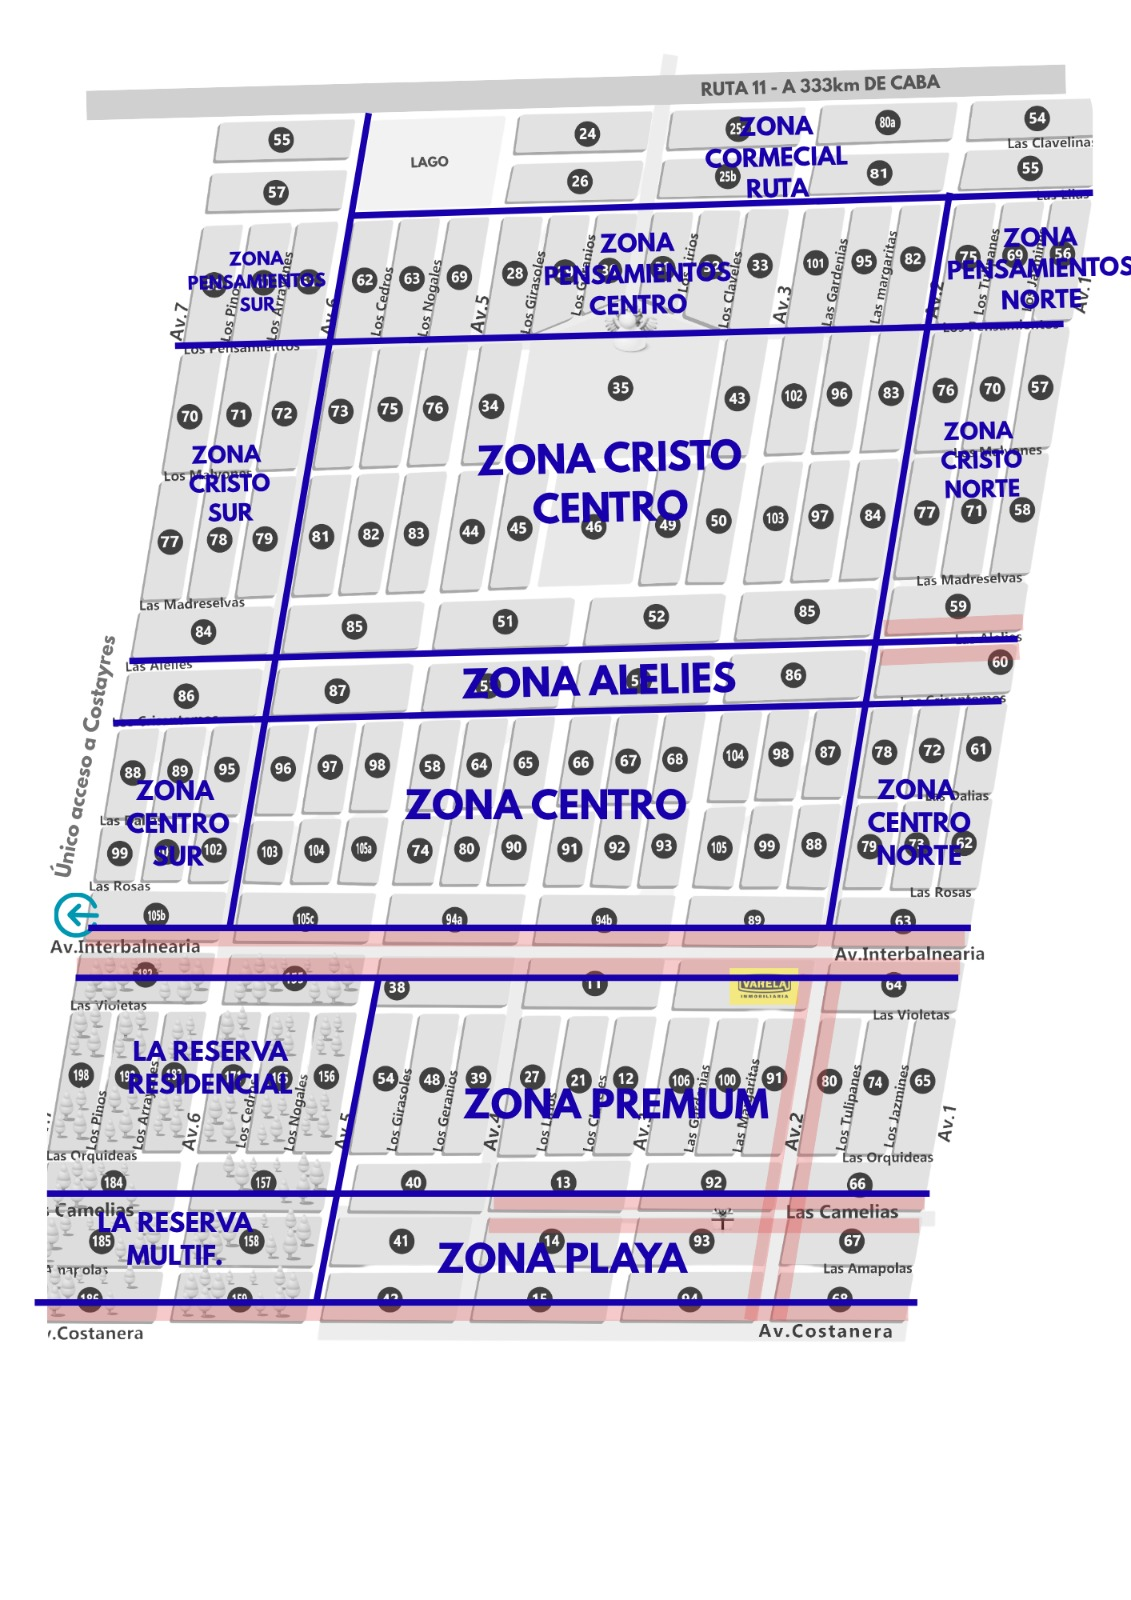
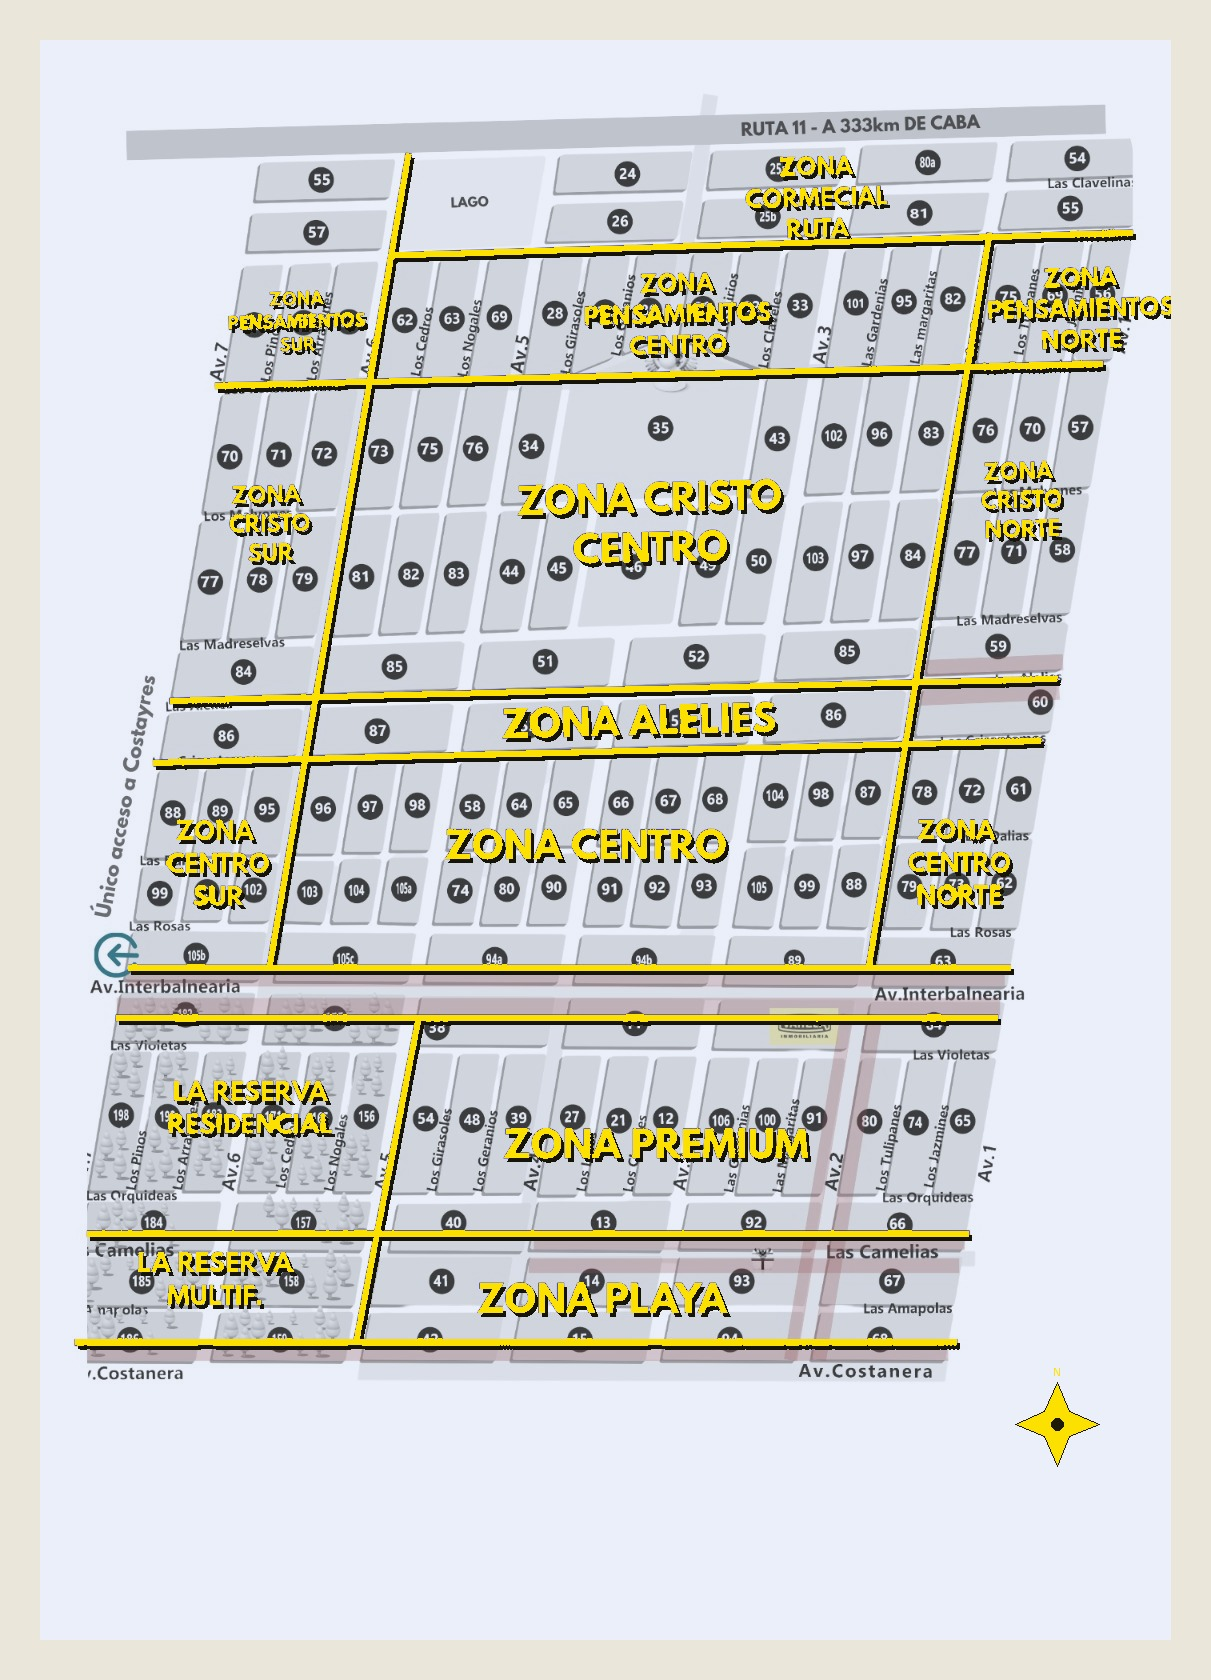
## Estética aplicada
El mapa del Tasador ahora usa la misma estética de tu imagen de referencia: líneas y nombres de zona en amarillo con efecto relieve, fondo en tono pizarra, marco tipo cuadro y brújula. Lo generé de forma determinística (no con IA generativa) para garantizar que el texto y las líneas quedaran exactamente en el mismo lugar que la foto original, y así no romper la precisión de los clics — recalculé las 19 coordenadas para el nuevo tamaño de imagen. Probado: seleccionar "Zona Playa" resalta correctamente sobre la foto restyleada.

Recordá **Deploy** para verlo en producción.

- Next Action Items:
  - **Calibrar Zonas**: Cargá los precios reales por zona en Tasador → "Ajustar variables del cálculo"
  - **Verificar en Producción**: Mirá el mapa con la nueva estética en tu dominio tras el deploy
  - **Follow-ups Automáticos**: Activá mensajes automáticos de WhatsApp para chats sin respuesta después de X horas
  - **Botón WhatsApp Flotante**: Agregá un botón flotante de WhatsApp en todas las páginas públicas para captar más leads

diff --git a/frontend/src/app/public/MapaZonas.tsx b/frontend/src/app/public/MapaZonas.tsx
@@ -11,30 +11,29 @@ export const ZONAS_TASADOR: [string, string][] = [
 
 const NOMBRE: Record<string, string> = Object.fromEntries(ZONAS_TASADOR);
 
-// Coordenadas (%) recortadas a mano sobre la foto real del plano de Costa del Este
-// (public/costa-del-este-mapa-zonas.jpg, 1131×1600px). Cada celda es un overlay
-// transparente clickeable sobre la zona real dibujada en la imagen.
+// Coordenadas (%) recortadas a mano sobre la foto real del plano de Costa del Este, ya
+// restyleada en amarillo/gris con marco (public/costa-del-este-mapa-zonas.jpg, 1211×1680px).
 const OVERLAYS: { key: string; left: number; top: number; width: number; height: number; avenida?: boolean }[] = [
-  { key: 'comercial_ruta', left: 52.6, top: 5.9, width: 23.9, height: 6.6 },
-  { key: 'pensamientos_sur', left: 11.5, top: 12.5, width: 13.2, height: 9.1 },
-  { key: 'pensamientos_centro', left: 44.2, top: 12.5, width: 17.8, height: 9.1 },
-  { key: 'pensamientos_norte', left: 62.0, top: 12.5, width: 31.3, height: 9.1 },
-  { key: 'cristo_sur', left: 11.5, top: 21.6, width: 13.2, height: 17.2 },
-  { key: 'cristo_centro', left: 24.7, top: 21.6, width: 37.3, height: 17.2 },
-  { key: 'cristo_norte', left: 62.0, top: 21.6, width: 31.3, height: 17.2 },
-  { key: 'alelies', left: 11.5, top: 38.75, width: 81.8, height: 5.1 },
-  { key: 'centro_sur', left: 11.5, top: 43.8, width: 13.2, height: 14.1 },
-  { key: 'centro', left: 24.7, top: 43.8, width: 37.3, height: 14.1 },
-  { key: 'centro_norte', left: 62.0, top: 43.8, width: 31.3, height: 14.1 },
-  { key: 'reserva_residencial', left: 2.65, top: 61.1, width: 31.0, height: 13.5 },
-  { key: 'premium', left: 33.6, top: 61.1, width: 48.6, height: 13.5 },
-  { key: 'reserva_multif', left: 2.65, top: 74.6, width: 31.0, height: 7.9 },
-  { key: 'playa', left: 33.6, top: 74.6, width: 48.6, height: 7.9 },
+  { key: 'comercial_ruta', left: 52.44, top: 8.04, width: 22.3, height: 6.25 },
+  { key: 'pensamientos_sur', left: 14.04, top: 14.29, width: 12.3, height: 8.63 },
+  { key: 'pensamientos_centro', left: 44.59, top: 14.29, width: 16.6, height: 8.63 },
+  { key: 'pensamientos_norte', left: 61.19, top: 14.29, width: 29.23, height: 8.63 },
+  { key: 'cristo_sur', left: 14.04, top: 22.92, width: 12.3, height: 16.37 },
+  { key: 'cristo_centro', left: 26.34, top: 22.92, width: 34.85, height: 16.37 },
+  { key: 'cristo_norte', left: 61.19, top: 22.92, width: 29.23, height: 16.37 },
+  { key: 'alelies', left: 14.04, top: 39.29, width: 76.38, height: 4.82 },
+  { key: 'centro_sur', left: 14.04, top: 44.11, width: 12.3, height: 13.45 },
+  { key: 'centro', left: 26.34, top: 44.11, width: 34.85, height: 13.45 },
+  { key: 'centro_norte', left: 61.19, top: 44.11, width: 29.23, height: 13.45 },
+  { key: 'reserva_residencial', left: 5.78, top: 60.54, width: 28.9, height: 12.86 },
+  { key: 'premium', left: 34.68, top: 60.54, width: 45.42, height: 12.86 },
+  { key: 'reserva_multif', left: 5.78, top: 73.39, width: 28.9, height: 7.56 },
+  { key: 'playa', left: 34.68, top: 73.39, width: 45.42, height: 7.56 },
   // Avenidas/calles: van arriba de las zonas (mayor z-index), tal como las resalta el plano real.
-  { key: 'av_interbalnearia', left: 2.65, top: 57.2, width: 94.4, height: 3.9, avenida: true },
-  { key: 'camelias', left: 2.65, top: 73.1, width: 94.4, height: 2.5, avenida: true },
-  { key: 'av_costanera', left: 2.65, top: 80.3, width: 94.4, height: 2.5, avenida: true },
-  { key: 'av2', left: 67.2, top: 57.9, width: 3.5, height: 24.6, avenida: true },
+  { key: 'av_interbalnearia', left: 5.78, top: 56.85, width: 88.44, height: 3.69, avenida: true },
+  { key: 'camelias', left: 5.78, top: 72.02, width: 88.44, height: 2.38, avenida: true },
+  { key: 'av_costanera', left: 5.78, top: 78.87, width: 88.44, height: 2.38, avenida: true },
+  { key: 'av2', left: 66.06, top: 57.56, width: 3.3, height: 23.39, avenida: true },
 ];
 
 const AVENIDAS: [string, string][] = [

diff --git a/frontend/src/index.css b/frontend/src/index.css
@@ -8125,8 +8125,8 @@ p {
   color: #71717a; margin: 0 0 10px; display: flex; align-items: center; justify-content: center; gap: 6px;
 }
 .mapz__imgwrap {
-  position: relative; width: 100%; max-width: 460px; margin: 0 auto; border-radius: 14px;
-  overflow: hidden; border: 1px solid rgba(251, 224, 0, 0.3); background: #0a0a0c;
+  position: relative; width: 100%; max-width: 460px; margin: 0 auto; border-radius: 10px;
+  overflow: hidden; box-shadow: 0 8px 28px rgba(0,0,0,0.45);
 }
 .mapz__img { display: block; width: 100%; height: auto; }
 .mapz__overlay {

diff --git a/memory/PRD.md b/memory/PRD.md
@@ -1711,6 +1711,12 @@ Migración a UN dominio con paths (evita el problema de multi-dominio y que el O
 - Verificado: engine_success=True, reviewdog 0 findings en líneas cambiadas, frontend compila (HTTP 200).
 
 
+## CHANGELOG 2026-08 (k) — Estética del mapa: amarillo con relieve + marco (modelo del usuario)
+- Usuario compartió una imagen de referencia (mismo plano, pero con líneas y texto en amarillo con efecto relieve/3D, fondo gris más oscuro, marco tipo cuadro y brújula) y pidió usarla como "modelo estético".
+- En vez de pedirle a un modelo generativo que restyleara la foto (riesgo de que desplace texto/líneas y rompa la alineación de los clics), se generó la nueva versión con PIL de forma determinística: se detectan por color los píxeles azul-marino originales (líneas + texto) y se repintan en amarillo de marca (#FBE000) con una sombra oscura desplazada 3-4px (efecto relieve/emboss), se desatura y oscurece levemente el resto (tono pizarra), se agrega un marco crema de 40px y una brújula simple abajo a la derecha.
+- Como el marco agrega padding, se recalcularon las 19 coordenadas % de los overlays clickeables contra el nuevo lienzo (1211×1680px, antes 1131×1600px) — la imagen base cambió pero la posición de cada zona (Cristo Centro, Playa, avenidas, etc.) sobre la foto se mantiene exacta.
+- Verificado con click automatizado en "Zona Playa": resalta correctamente sobre el sector amarillo de la foto restyleada. REQUIERE REDEPLOY para verse en producción.
+
 ## CHANGELOG 2026-08 (j) — Mapa con la FOTO REAL del plano (no ilustración abstracta)
 - **Pedido del usuario**: el mapa (i) usaba cajas abstractas estilizadas; pidió que las zonas estén literalmente aplicadas SOBRE la foto real del plano que subió, para que el cliente identifique visualmente su inmueble (calles, lotes, numeración reales).
 - Se descargó la imagen real (`WhatsApp Image 2026-08-29 at 19.02.43.jpeg`, 1131×1600px) a `frontend/public/costa-del-este-mapa-zonas.jpg`. `MapaZonas.tsx` reescrito: la imagen se muestra de fondo y encima se superponen 19 botones transparentes posicionados en % (izquierda/arriba/ancho/alto) recortados a mano sobre las líneas divisorias reales de la foto (detectadas con un script de análisis de píxeles para ubicar las líneas azules del plano con precisión, luego validado dibujando las cajas propuestas sobre la imagen y ajustando).
